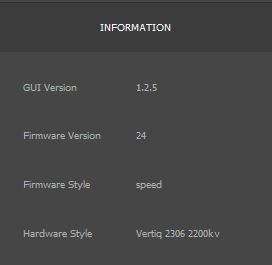
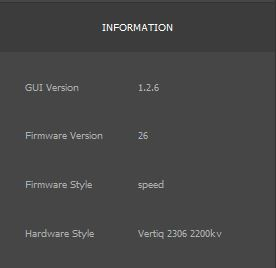
Update pwm/dshot tutorial

diff --git a/docs/tutorials/pwm_control_flight_controller.rst b/docs/tutorials/pwm_control_flight_controller.rst
@@ -82,7 +82,7 @@ Pictures of the full setup for an 8108 or a 2306 connected to a flight controlle
 Firmware and Software Versions
 ==============================
 
-This tutorial was written for IQ Control Center version 1.2.5. It should also be applicable to future versions of the Control Center, but there
+This tutorial was written for IQ Control Center version 1.2.6. It should also be applicable to future versions of the Control Center, but there
 may be some slight differences in the number of parameters available on tabs or the exact names of parameters and settings. The version of you Control Center
 can be seen in the Information tab, as shown in the image below. For more information on how to use the Control Center, refer to :ref:`control_center_tutorial`.
 
@@ -91,41 +91,57 @@ can be seen in the Information tab, as shown in the image below. For more inform
 
     Control Center Version
 
+.. warning:: Versions of the Control Center prior to 1.2.6 had bugs that made setting the hobby protocol correctly difficult. Ensure that you have upgraded to version 1.2.6 or later
+    before continuing with this setup.
+
 
 For motor firmware, you can check the firmware version and style on your motor by connecting to it with the Control Center and referring to the Information section, as shown in the image below. 
 For more information on how to use the Control Center to check and update firmware, refer to :ref:`control_center_tutorial`. You can check for updated firmware under the `Products <https://www.iq-control.com/products>`_ section of the IQ Motion Control website.  
 
-For the Vertiq 8108, this tutorial was tested with an 8108 using speed firmware version 3. Future firmware versions should also be compatible, but ensure that your 8108 is on at least
-version 3 when following this tutorial. 
+For the Vertiq 8108, this tutorial was tested with an 8108 using speed firmware version 5. Future firmware versions should also be compatible, but ensure that your 8108 is on at least
+version 5 when following this tutorial. 
 
 .. figure:: ../_static/tutorial_images/pwm_flight_controller/8108_fw_version.JPG
     :align: center
 
     8108 Firmware Version
 
-For the Vertiq 2306, this tutorial was tested with a 2306 using speed firmware version 24. Future firmware versions should also be compatible, but ensure that your 8108 is on at least
-version 24 when following this tutorial. 
+.. warning:: Versions of the 8108 firmware prior to version 5 had bugs that made calibrating and selecting the hobby protocol difficult. Ensure that you have upgraded to version 5 or later
+    before continuing with this setup.
+
+For the Vertiq 2306, this tutorial was tested with a 2306 using speed firmware version 26. Future firmware versions should also be compatible, but ensure that your 8108 is on at least
+version 26 when following this tutorial. 
 
 .. figure:: ../_static/tutorial_images/pwm_flight_controller/2306_fw_version.JPG
     :align: center
 
     2306 Firmware Version
 
+.. warning:: Versions of the 2306 firmware prior to version 26 had bugs that made calibrating and selecting the hobby protocol difficult. Ensure that you have upgraded to version 26 or later
+    before continuing with this setup.
+
 Reverting to Defaults (Optional)
 ================================
 
 If you have previously used or set any configurations on the motor, it may be useful to revert it to its default state before continuing with this tutorial. This ensures
-that you start with a fresh motor and there should be no lingering issues from previous configurations.
+that you start with a fresh motor and there should be no lingering issues from previous configurations. **Note that these instructions are only correct for Control Center
+version 1.2.6 and greater, Vertiq 8108 version 5 and greater, and Vertiq 2306 version 26 and greater. Earlier versions used a different factory defaulting workflow.**
 
 To reset the motor, first connect to it with Control Center. Then navigate to the Advanced tab, and click Yes when prompted if you are sure that you want to access the Advanced
-settings. Then, find the "Revert to Factory Defaults" configuration parameter and click the set arrow. The motor should reboot with factory default settings. 
-For more information on how to connect to the motor in Control Center and to set parameters, refer to :ref:`control_center_tutorial`. The figure below shows the
-"Revert to Factory Defaults" parameter that should be used.
+settings. 
+
+Scroll down until you see the the "Revert to Factory Default Key 1" and "Revert to Factory Default Key 2" parameters. These keys need to be set properly before the motor can be
+defaulted. This is meant to protect against unintentional defaulting. Set "Revert to Factory Default Key 1" to 12345678 and "Revert to Factory Default Key 2" to 11223344.
+This will prime the motor for defaulting. See the figure below for an example of setting these keys.
 
 .. figure:: ../_static/tutorial_images/pwm_flight_controller/revert.JPG
     :align: center
 
-    Revert to Factory Defaults Parameter
+    Revert to Factory Defaults Keys
+
+Then, find the "Revert to Factory Defaults" configuration parameter and click the set arrow. The motor should disconnect and reboot. When you re-connect, 
+it be have defaulted to its factory fresh state. For more information on how to connect to the motor in Control Center and to set parameters, refer 
+to :ref:`control_center_tutorial`. 
 
 Motor Configuration
 ===================
@@ -140,14 +156,14 @@ General Tab
 ***********
 First, there are a few parameters to set in the General tab. Not all of the parameters in this tab are important, and only the relevant ones are
 highlighted here. If a parameter is not mentioned, you can safely leave it at its default. The correct settings and purpose of each parameters are 
-described in greater detail below. The figure below provides a quick overview of what the settings in Control Center should look like when you're done, with
+described in greater detail below. The figure below provides a quick overview of what the settings in Control Center should look like when you're done setting up for PWM, with
 the important parameters indicated with a red dot. Note that the figure is from an 8108, you may have less total parameters in the General tab on a 2306, but the 
 important parameters should be the same between both sizes.
 
 .. figure:: ../_static/tutorial_images/pwm_flight_controller/pwm_general.JPG
     :align: center
 
-    General Configuration for PWM, Red Dots on Important Parameters (Communication should be OneShot125 for PWM, DSHOT1200 for DSHOT, see below for details on why)
+    General Configuration for PWM, Red Dots on Important Parameters
 
 The list below provides a description of the important parameters and details on what they should be set to. **Most paramaters are the same in PWM and DSHOT setups, but ones that differ have
 sections for both setups**:
@@ -159,13 +175,13 @@ sections for both setups**:
   depending on the flight controller. In those cases, it is best to set the motor to only listen for a specific type of protocol. For this reason, we will explicitly set the protocol to listen to in this setup. The proper value
   for this configuration depends on if you are using PWM or DSHOT
   
-  * **PWM Setup**: Counter-intuitively (due to a Control Center bug), you should set the Communication protocol to **OneShot125** to listen to PWM messages in version 1.2.5 of the Control Center. This may change in future versions. See the bug warning below for 
-    details.
-  * **DSHOT Setup**: Set this to **DSHOT1200**. This may seem confusing later, as we will set the flight controller to DSHOT600. See the bug warning below for details on why we need to do this.
+  * **PWM Setup**: Set the Communication protocol to **Standard PWM** to listen to PWM messages in version 1.2.6 and later of the Control Center. In Version 1.2.5 and earlier, you will need to select OneShot125
+    due to a Control Center bug. See the bug warning below for details.
+  * **DSHOT Setup**: Set this to **DSHOT600** in version 1.2.6 and later of the Control Center. In Version 1.2.5 and earlier, you will need to select DSHOT1200 due to a Control Center bug. See the bug warning below for details.
 
   .. warning:: **Known Bug:** In version 1.2.5 and earlier versions of the Control Center, there is a bug in the dropdown menu for the Communication parameter. The numbering for options besides Autodetect has been improperly configured.
       If you select a protocol from the list other than Autodetect, the motor will actually be listening for the next protocol up in the list instead of what you selected. So in order to listen for PWM, you should select OneShot125.
-      This will be addressed in future versions of the Control Center.
+      This is addressed in version 1.2.6 and later of the Control Center.
 
 * **FC 2D/3D Mode**: This parameter tells the motor if the flight controller wants it to operate in 2D mode (spinning in one direction) or 3D mode (able to spin in both directions). This depends on your flight controller, but for this 
   test setup, **set this to 2D mode**.
@@ -177,7 +193,9 @@ sections for both setups**:
   There are 3 modes:
 
   * PWM: This mode means that the motor will apply a fraction of the battery voltage as its drive voltage when given a setpoint. For example, if your battery voltage is 20V, and you send a 50% command, then the motor will apply a 10V drive voltage. 
-  * Despite the similar naming, this mode has nothing to do with using the Hobby PWM
+    
+    * Despite the similar naming, this mode has nothing to do with using the Hobby PWM Communication Protocol
+  
   * Voltage: This mode interprets the commands as a fraction of the maximum voltage set in the Tuning tab. So if your maximum voltage was set at 8V, and you sent a 25% throttle command, the motor would apply a drive voltage of 2V.
   * Velocity: This mode interprets the command as a fraction of the maximum velocity set in the Tuning tab. So if your maximum velocity was set at 100 rad/s, and you sent a 25% throttle command, the motor would try to spin at 25 rad/s.
   
